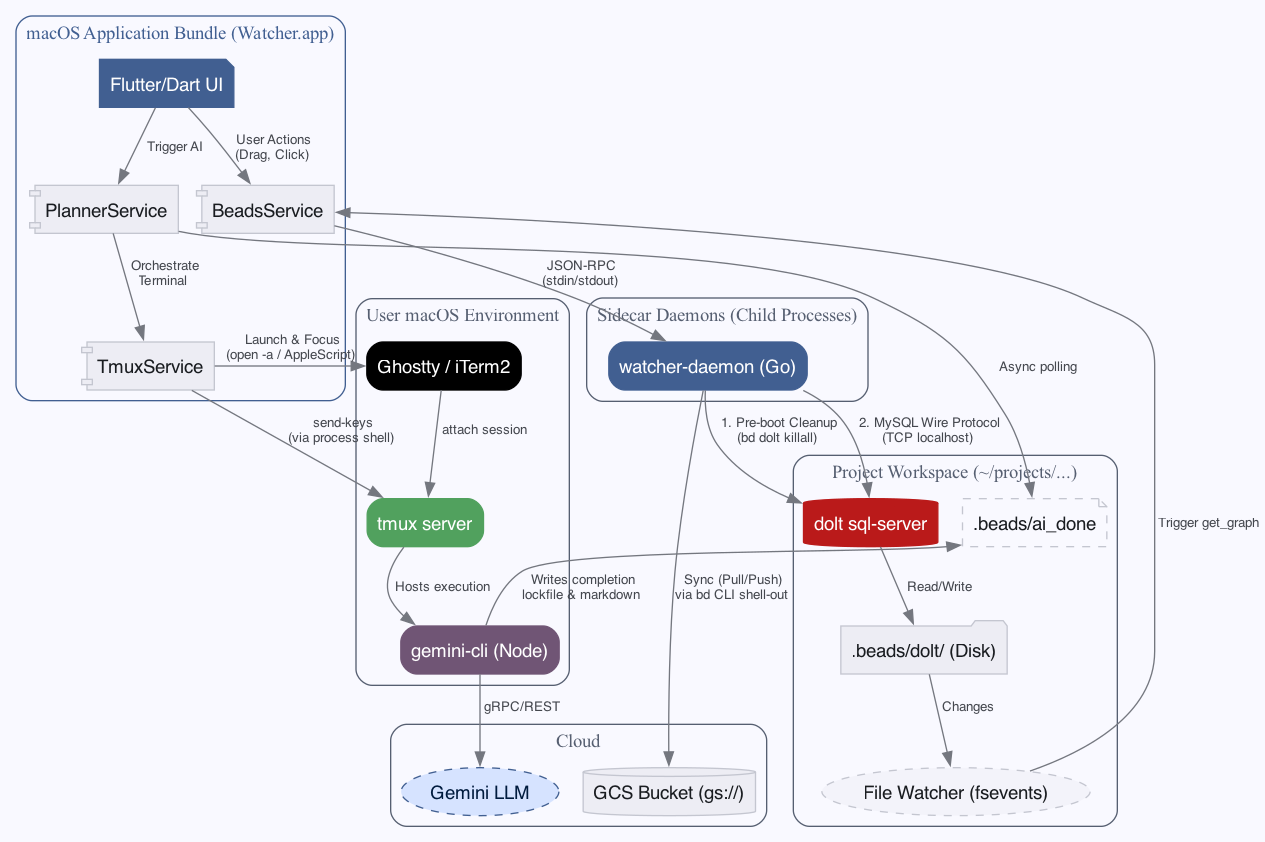
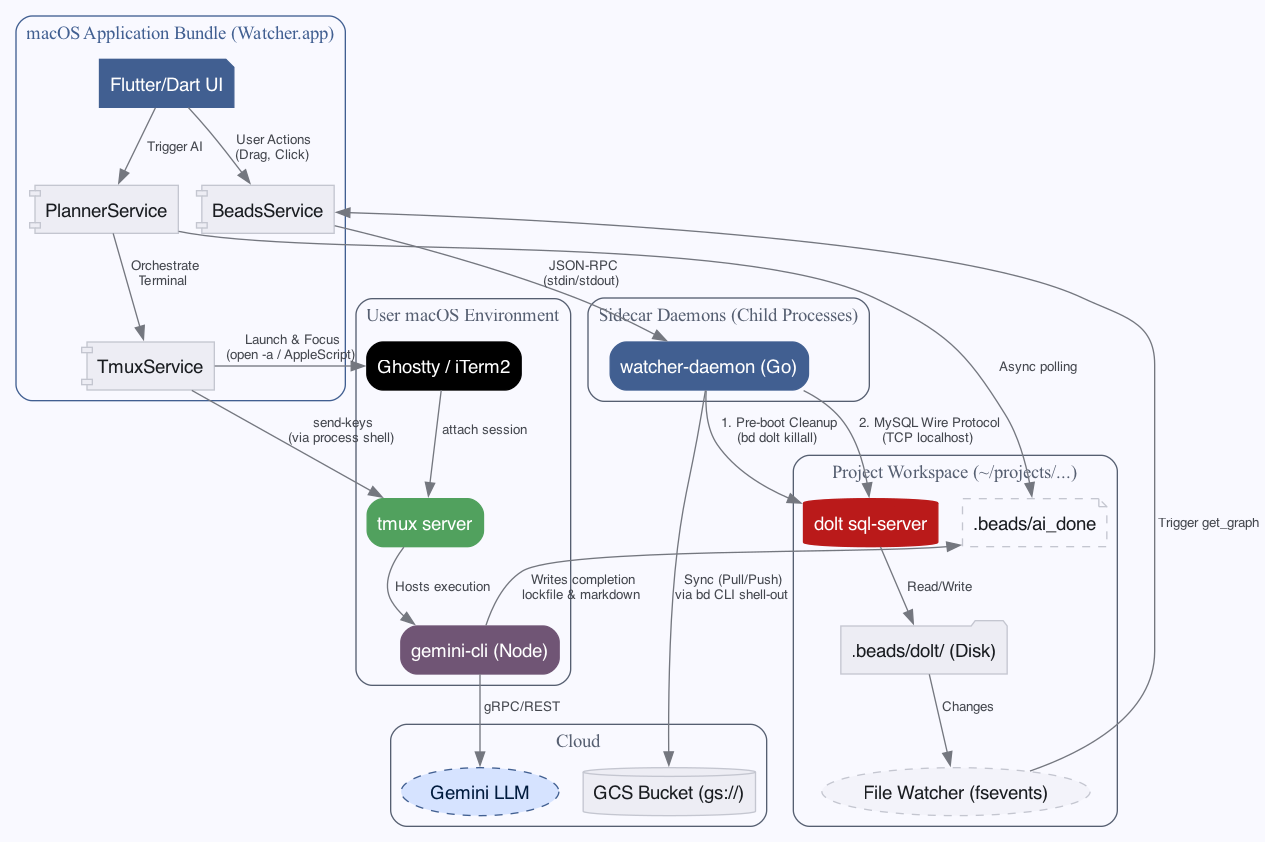
docs: update ARCHITECTURE.md and widget tree for 0.8.0 feature set

diff --git a/docs/ARCHITECTURE.md b/docs/ARCHITECTURE.md
@@ -21,9 +21,9 @@ The Watcher application needs to reflect changes to the `beads` issues in near r
    * *Cons:* Relies on polling which consumes constant CPU and disk I/O. Integrating a SQL driver or managing a background `dolt sql-server` process adds significant complexity and overhead to a lightweight desktop viewer.
 
 **Implementation Strategy:**
-The `AppState` or `BeadsService` will instantiate a file watcher on the `.beads` folder when a project is selected. When file modifications are detected, a debounce timer is reset. Once the timer fires, the app calls `bd export` and `bd graph` to refresh the in-memory models. 
+`AppState` instantiates a file watcher on the `.beads/backup/` folder when a project is selected. When file modifications are detected, a debounce timer is reset. Once the timer fires, the app calls `BeadsService.getIssues()` (which sends a `graph` JSON-RPC request to the `watcher-daemon`) to refresh the in-memory models. All reads go through the hot daemon connection, never through direct CLI shell-outs.
 
-Additionally, a **30-second background heartbeat** timer ensures the UI stays synchronized even if OS-level file events are missed or coalesced.
+Additionally, a configurable safety **heartbeat** timer (default 30 seconds) ensures the UI stays synchronized even if OS-level file events are missed or coalesced.
 
 ## macOS Native UI Paradigms
 
@@ -72,6 +72,12 @@ For automated, non-interactive tasks, Watcher calls the Gemini API directly via 
 1. **The Summarization Pipeline:** When a task is closed, `AppState` triggers an asynchronous call to `GenerativeAiService`. It uses `gemini-3-flash-preview` (via Vertex AI) to summarize the resolution based on comment history and description context.
 2. **System Comments:** The resulting summary is posted back to the issue as a system comment (e.g., `🤖 Resolution Summary: ...`), ensuring the resolution intent is captured in the `interactions.jsonl` audit trail and dashboard ticker.
 
+### 4. Dependency Visualization and Authoring
+Watcher now renders the full two-layer `bd` graph model:
+- **Parent-child tree** (Tree View): the hierarchical organization of epics → tasks → subtasks.
+- **Blocks DAG** (Kanban badges, Tree pips, Ready Queue, Blocked view, Dependency Graph): the execution-ordering graph. The `IssueDependencies` model extension computes `blockers()`, `blocking()`, and `isBlocked()` from the in-memory issue list using the canonical bd direction — a dependency `{depends_on_id: Y, type: 'blocks'}` on issue X means X is blocked by Y.
+- **Dependency authoring**: the `add_dependency` and `remove_dependency` RPC methods on the `watcher-daemon` (backed by `beads.Storage.AddDependency` / `RemoveDependency`) allow the UI to create and remove `blocks`, `related`, and `discovered-from` edges from the Inspector panel.
+
 ### 3. Future: Watcher Live (Voice Mode)
 We plan to implement a real-time, multimodal "Live" mode using `liveGenerativeModel`. This will allow bidirectional audio streaming to query the status of all local projects simultaneously using natural language (e.g., *"Which of my projects has the most P0 tasks?"*).
 
@@ -85,7 +91,7 @@ Originally, Watcher's tree view attempted to mimic the command-line styling of `
 **Implementation Strategy:**
 1. **Hierarchy via Indentation:** Do not draw branch lines or text prefixes to connect children to parents. Hierarchy is communicated entirely through negative space (indentation) and the presence of a disclosure triangle (chevron) on parent nodes.
 2. **Consistent Leading Icons:** Outline views expect visual context for each item. We render the `issue.issueType` icon (e.g., epic, bug, feature) as the leading element immediately following the disclosure triangle for *all* nodes, regardless of their depth in the tree.
-3. **Trailing Badges for Status:** The right side of the Outline View is reserved for secondary metadata. We map semantic statuses like `blocked` (Red/Minus Symbol) and `deferred` (Grey/Snow Symbol) to specific colors to allow quick scanning without interrupting the primary hierarchical layout on the left.
+3. **Trailing Badges for Status and Readiness:** The right side of the Outline View is reserved for secondary metadata. We render: a **computed-readiness pip** (red exclamation icon) when an issue's `blocks` dependencies include at least one open issue; an **orange hub chip** (`↑N`) when an issue is blocking N others; a **priority badge** (P0–P4 colour-coded); and a **status icon** mapping semantic statuses like `blocked` (Red/Minus) and `deferred` (Grey/Snow). The readiness pip is *distinct* from the status badge — it reflects computed dependency state, not the literal `status` field.
 
 ## Standalone Architecture: The Go RPC Daemon
 
@@ -113,5 +119,5 @@ Dolt operates in two modes:
 1. **Enforced Server Mode:** The `beads` library is configured to prefer Server mode. If a server is not already running, `beads` will attempt to start one automatically.
 2. **Pre-boot Cleanup:** Before the Go daemon attempts to connect to the Dolt database, it shells out to `bd dolt killall`. This mimics the behavior of `bd doctor`, proactively scanning the OS process tree and SIGKILLing any orphaned Dolt SQL servers that might be holding a dead lock on the `.beads/dolt/` directory.
 3. **Graceful IPC Errors:** If a database is fundamentally corrupted (e.g. `noms LOCK` from an embedded crash), the daemon catches the initialization error and prints a serialized JSON-RPC error payload to `stdout` before exiting. This ensures the Dart UI can gracefully render the error state on the dashboard instead of succumbing to an unhandled asynchronous `SocketException`.
-3. **Stream Accumulation:** To prevent large JSON-RPC payloads (like graphs containing massive architectural `.md` files) from being truncated or fragmented by Dart's internal buffer limits, the UI decodes the `stdout` stream using the raw `json.decoder` rather than the naive `LineSplitter()`.
+3. **Stream Framing:** The daemon emits one JSON object per line; `BeadsService` frames the stdout stream using `LineSplitter` so each line is parsed independently. Server-initiated notifications (e.g. `boot_status` during Dolt startup) are handled inline before request responses and do not consume a pending request ID.
 